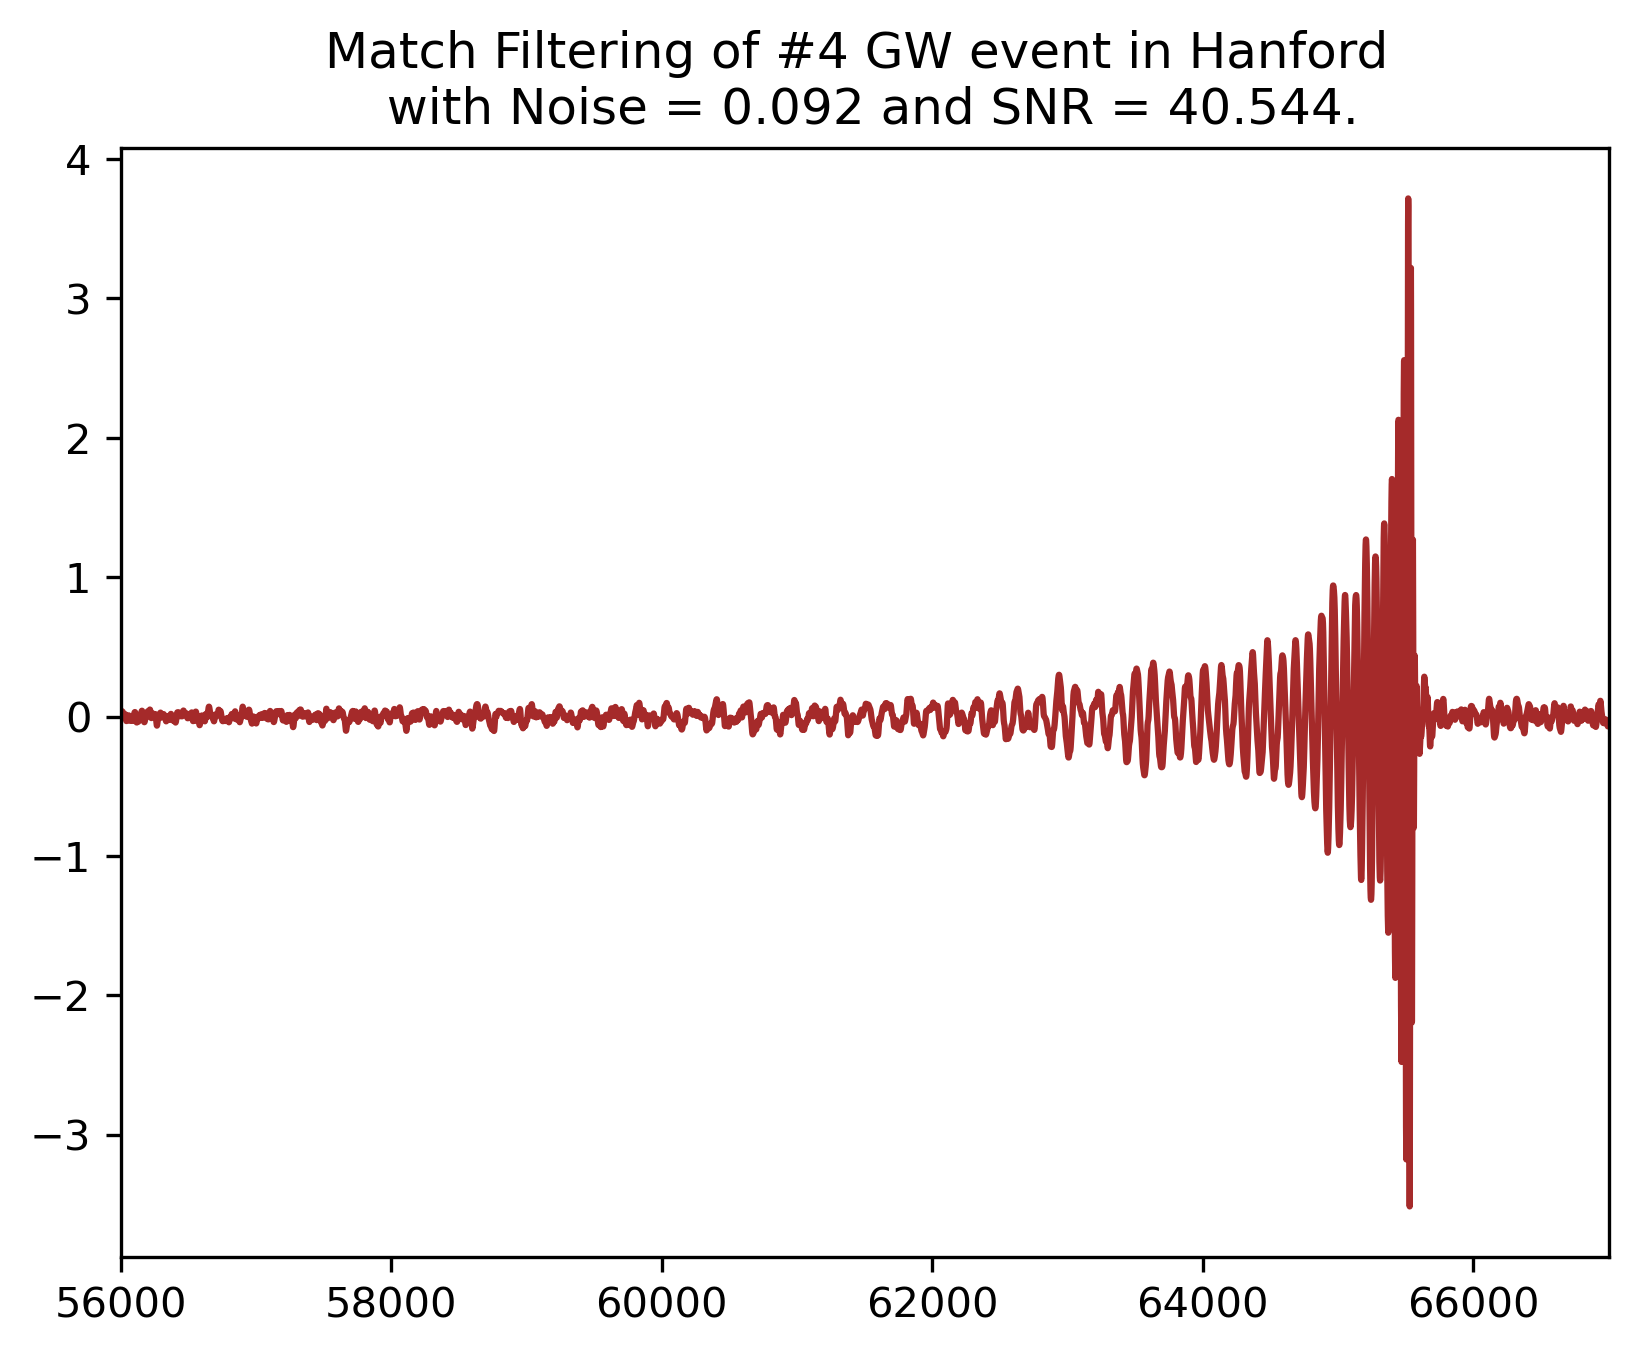
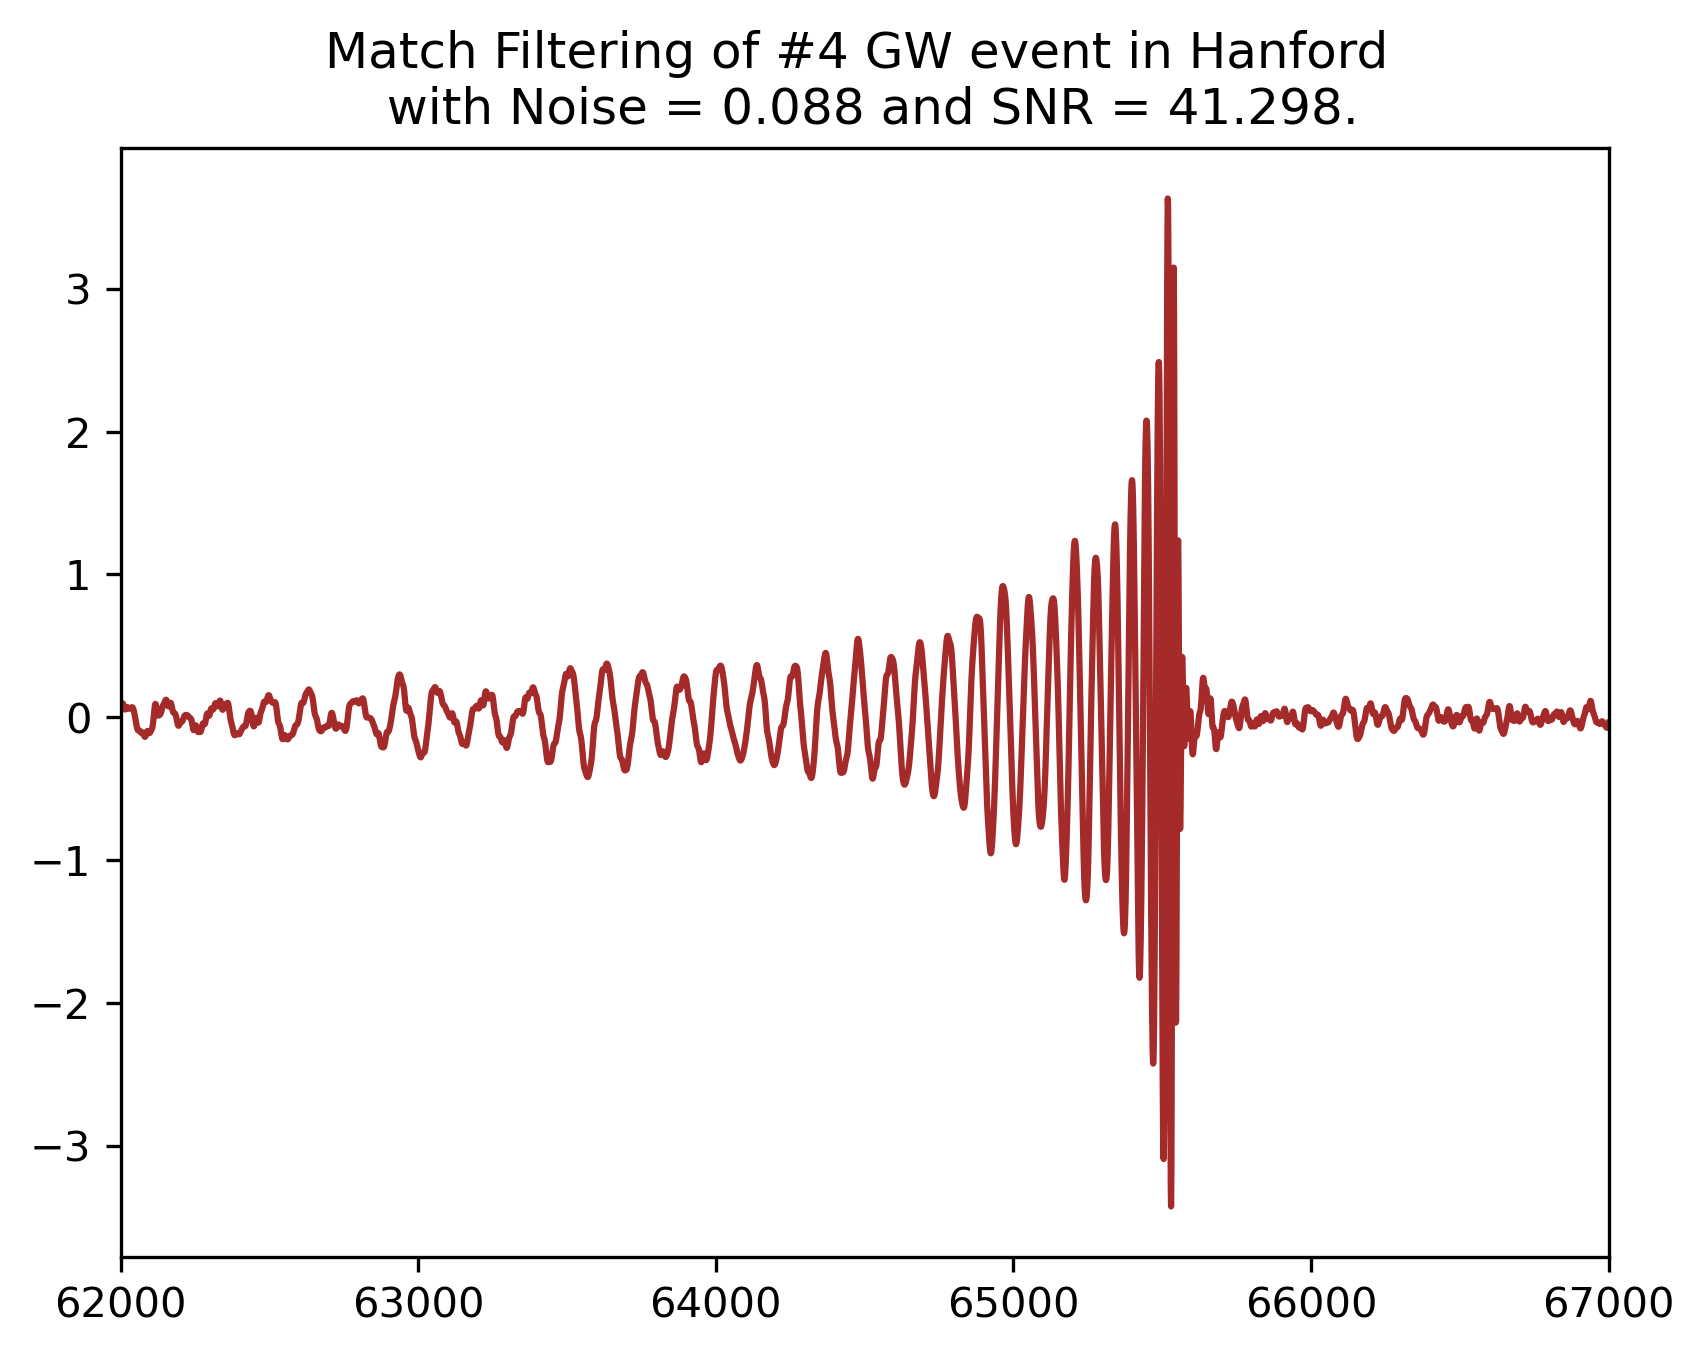
1134

diff --git a/problem_sets/ps6/ps6_1.py b/problem_sets/ps6/ps6_1.py
@@ -1,5 +1,6 @@
 import numpy as np
 from matplotlib import pyplot as plt
+from scipy.ndimage import gaussian_filter1d
 import h5py
 import glob
 import json
@@ -44,12 +45,19 @@ Nft_2 = np.abs(sft_l)**2
 Nft = Nft_1.copy()
 Nftl = Nft_2.copy()
 # smooth out the noise model:
-for i in range(10):
-    Nft_H = (Nft + np.roll(Nft, 1) + np.roll(Nft, -1))/3
-    Nft_L = (Nftl + np.roll(Nftl, 1) + np.roll(Nftl, -1))/3
+
+Nft_H = gaussian_filter1d(Nft, 1)
+Nft_L = gaussian_filter1d(Nftl, 1)
+
+plt.loglog(Nft_1, label = 'unsmoothed')
+plt.loglog(Nft_H, label = 'Gaussian smoothed')
+plt.legend()
+plt.title('Noise Model for Hanford Detector')
+plt.savefig(f'Noise_Model_H.png',dpi = 300, bbox_inches = 'tight')
+plt.show()
 
 plt.loglog(Nft_2, label = 'unsmoothed')
-plt.loglog(Nft_L, label = 'smoothed')
+plt.loglog(Nft_L, label = 'Gaussian smoothed')
 plt.legend()
 plt.title('Noise Model for Livingston Detector')
 plt.savefig(f'Noise_Model_L.png',dpi = 300, bbox_inches = 'tight')
@@ -83,14 +91,14 @@ for i in range(4):
 
 for i in range(4):
     plt.plot(xcorr2[i,::-1],color = 'brown')
-    plt.xlim([56000,67000])
+    plt.xlim([62000,67000])
     plt.title(f'Match Filtering of #{i+1} GW event in Hanford \n with Noise = {Noise[i]:.3f} and SNR = {SNR[i]:.3f}.')
     plt.savefig(f'GW{i + 1}_H.png', dpi=300, bbox_inches='tight')
     plt.show()
 
 for i in range(4):
     plt.plot(xcorrl[i,::-1],color = 'green')
-    plt.xlim([56000,67000])
+    plt.xlim([62000,67000])
     plt.title(f'Match Filtering of #{i+1} GW event in Livingston \n with Noise = {Noise_l[i]:.3f} and SNR = {SNR_l[i]:.3f}.')
     plt.savefig(f'GW{i + 1}_L.png', dpi=300, bbox_inches='tight')
     plt.show()
